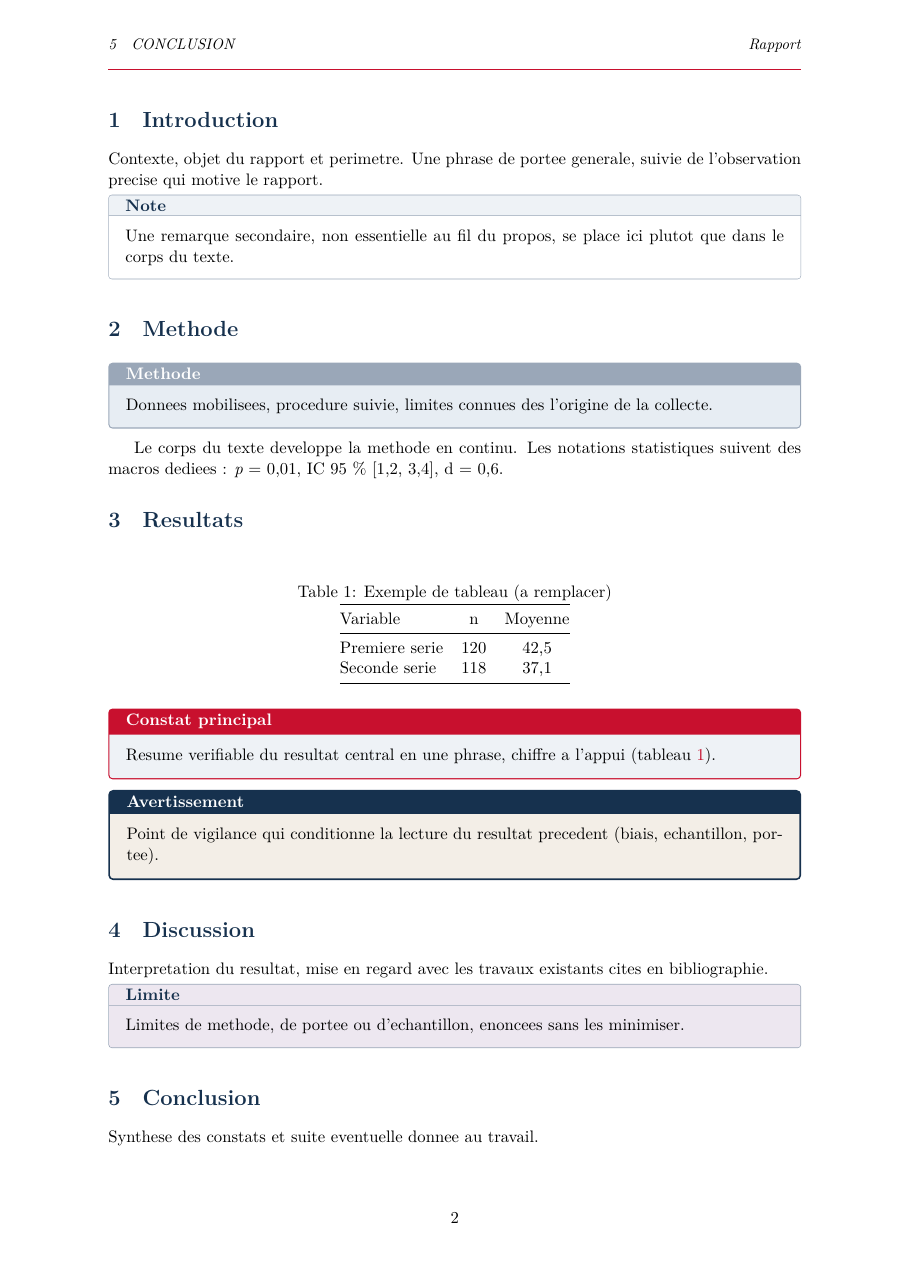
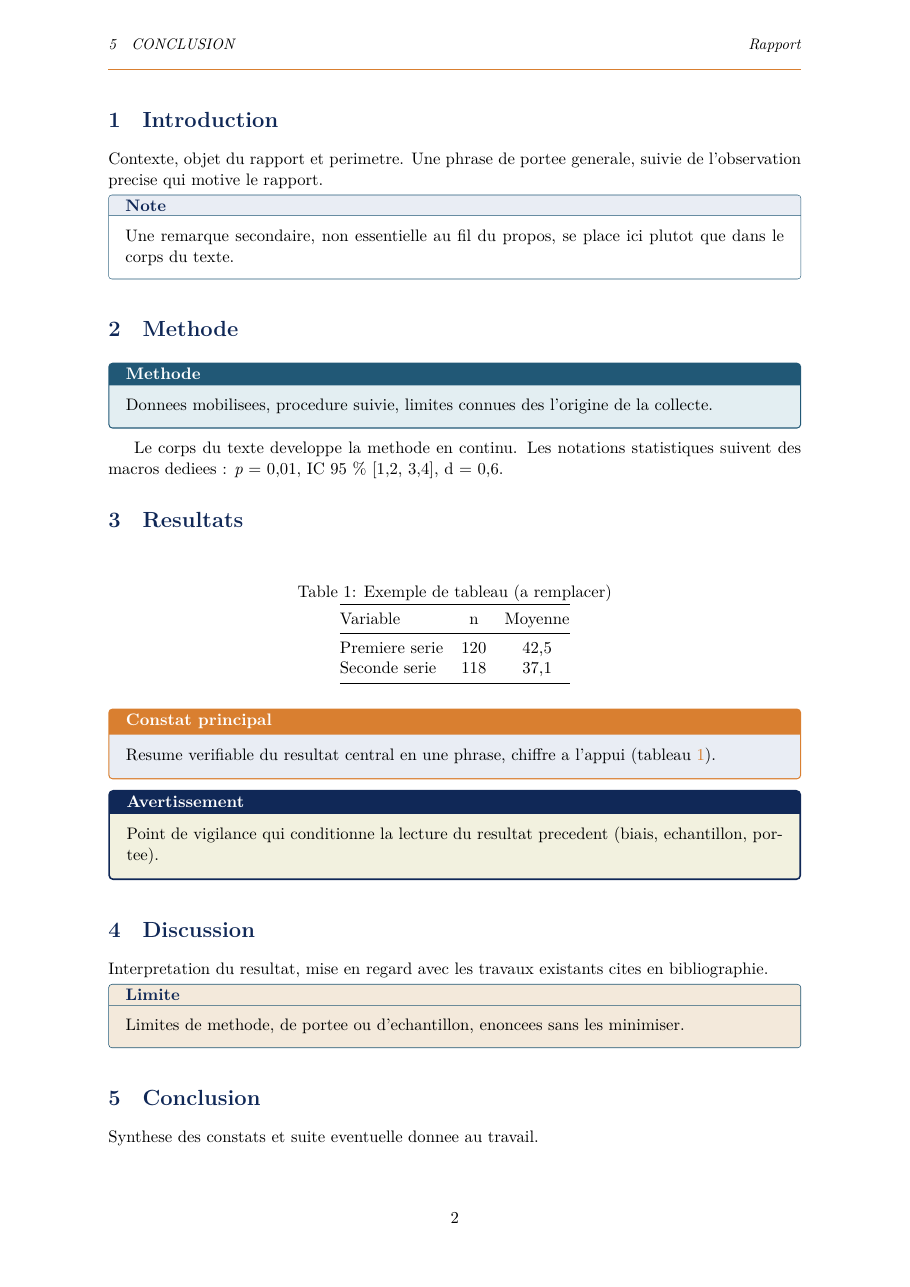
Identite visuelle : palette marine-sarcelle-creme-camel-orange appliquee a la charte d'exemple, bannieres, collage, galerie recompilee (rapport, poster, figures), badges accordes, social preview

Changed region(s): [[0.1231, 0.5284, 0.8923, 0.5905], [0.0923, 0.2797, 0.8923, 0.3108]]

diff --git a/README.md b/README.md
@@ -8,16 +8,16 @@
 <p align="center">
   <a href="https://github.com/MariusYvard/Scriptorium/actions/workflows/evals.yml"><img src="https://github.com/MariusYvard/Scriptorium/actions/workflows/evals.yml/badge.svg" alt="evals"></a>
   <a href="https://github.com/MariusYvard/Scriptorium/actions/workflows/release.yml"><img src="https://github.com/MariusYvard/Scriptorium/actions/workflows/release.yml/badge.svg" alt="release"></a>
-  <a href="https://github.com/MariusYvard/Scriptorium/releases/latest"><img src="https://img.shields.io/github/v/release/MariusYvard/Scriptorium?color=1f6feb&label=version" alt="dernière version"></a>
-  <img src="https://img.shields.io/badge/licence-MIT-3da639" alt="licence MIT">
-  <img src="https://img.shields.io/badge/python-stdlib%20pur-3776ab" alt="python stdlib pur">
+  <a href="https://github.com/MariusYvard/Scriptorium/releases/latest"><img src="https://img.shields.io/github/v/release/MariusYvard/Scriptorium?color=102857&label=version" alt="dernière version"></a>
+  <img src="https://img.shields.io/badge/licence-MIT-215876" alt="licence MIT">
+  <img src="https://img.shields.io/badge/python-stdlib%20pur-102857" alt="python stdlib pur">
 </p>
 
 <p align="center">
-  <img src="https://img.shields.io/badge/genres-26%20sourc%C3%A9s-8957e5" alt="26 genres sourcés">
-  <img src="https://img.shields.io/badge/publics-14-8957e5" alt="14 publics">
-  <img src="https://img.shields.io/badge/scripts%20d%C3%A9terministes-20-566573" alt="20 scripts déterministes">
-  <img src="https://img.shields.io/badge/%C3%A9valuations-92%2F92-2ea043" alt="92 évaluations">
+  <img src="https://img.shields.io/badge/genres-26%20sourc%C3%A9s-215876" alt="26 genres sourcés">
+  <img src="https://img.shields.io/badge/publics-14-215876" alt="14 publics">
+  <img src="https://img.shields.io/badge/scripts%20d%C3%A9terministes-20-BF9B6F" alt="20 scripts déterministes">
+  <img src="https://img.shields.io/badge/%C3%A9valuations-92%2F92-D97F30" alt="92 évaluations">
 </p>
 
 <p align="center"><b>Décrivez la cible. Scriptorium cadre, source, rédige, révise et met en forme un document rigoureux, sous le contrôle de garde-fous déterministes.</b></p>
